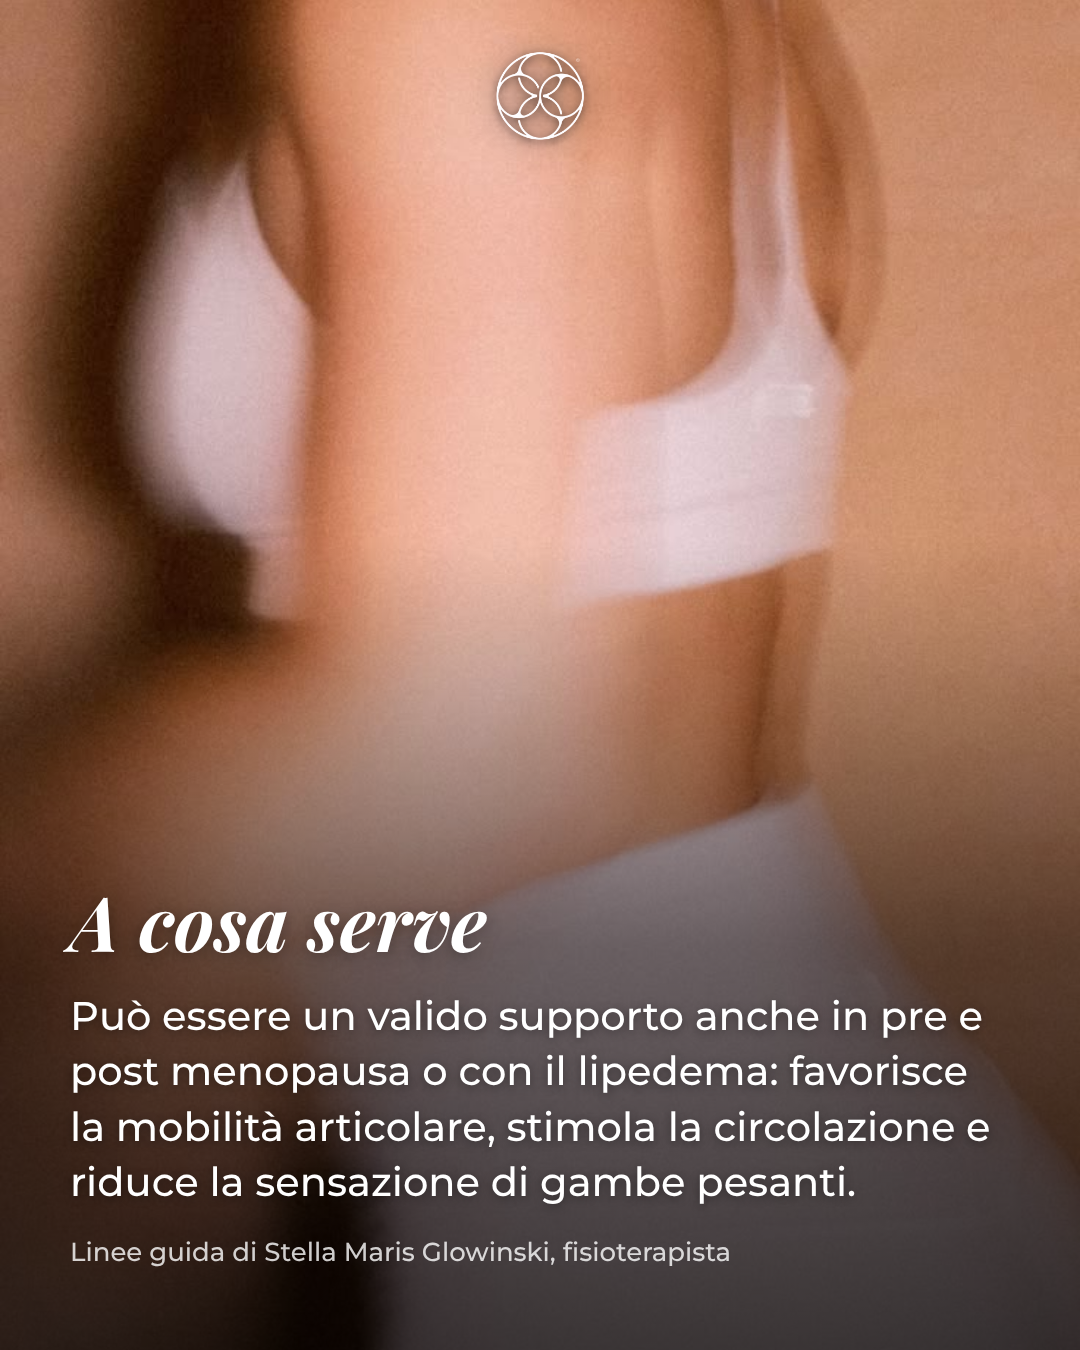
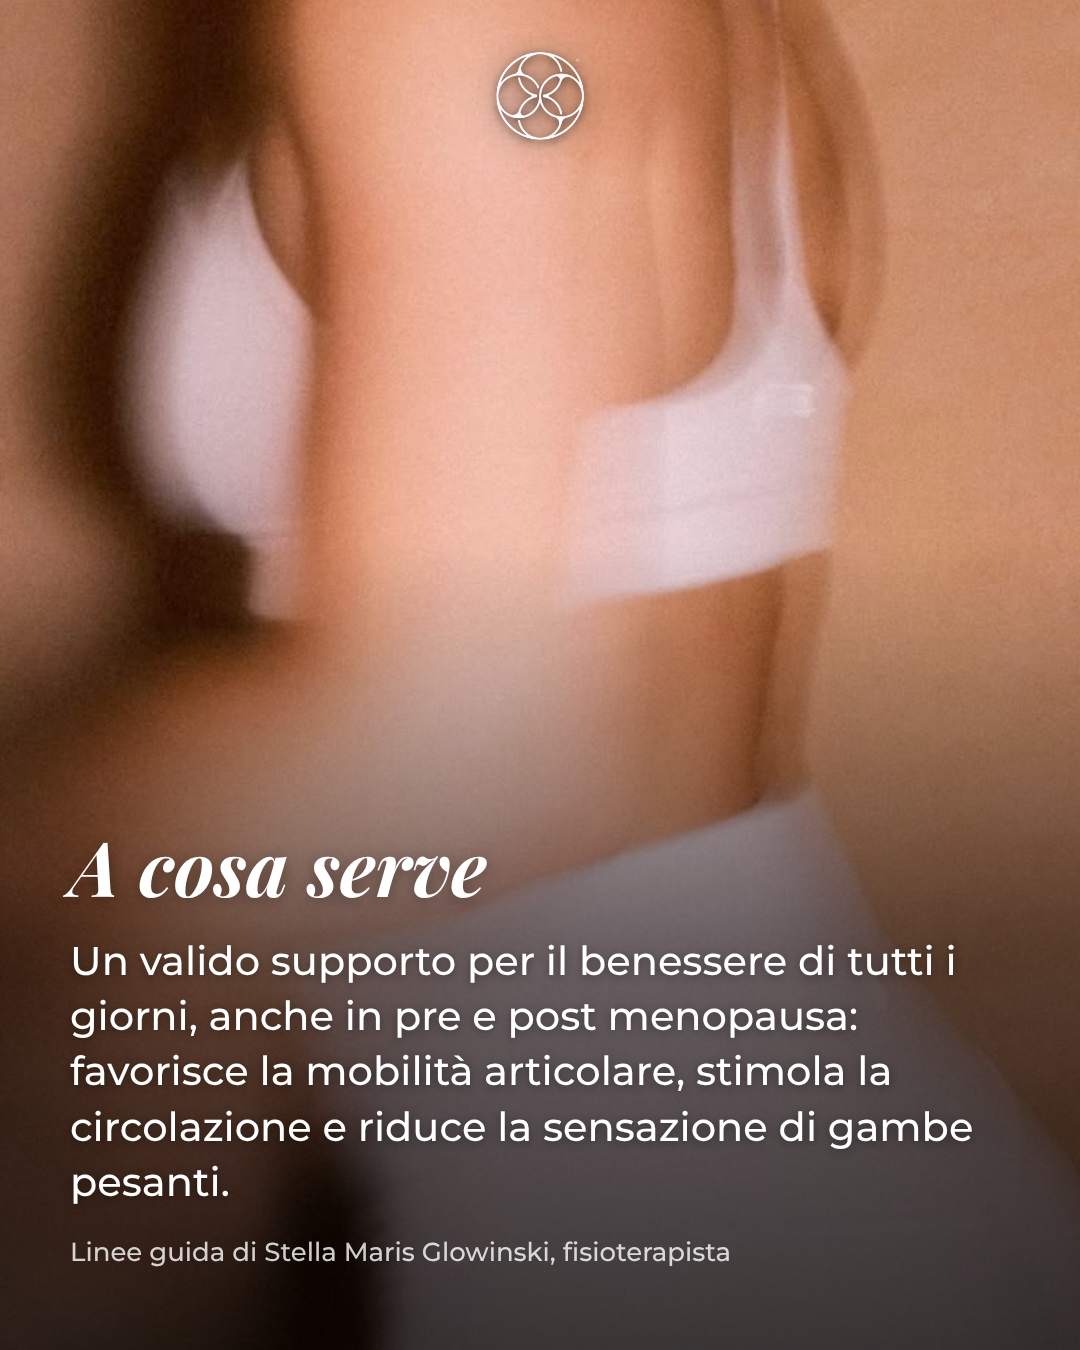
Vibration plate carousel: drop lipedema references
Claude-Session: https://claude.ai/code/session_0137T4JMubY1ECJ8eeHn4dmR

Changed region(s): [[0.0611, 0.6222, 0.9167, 0.9022], [0.825, 0.6844, 0.8861, 0.7156]]

diff --git a/src/Pedana/Slides.tsx b/src/Pedana/Slides.tsx
@@ -2,7 +2,7 @@ import { SlideData } from "../Carosello/Slides";
 
 // Vibration plate carousel, slides 2-8 (after the video cover in ./index.tsx).
 // Content from the guidelines by physiotherapist Stella Maris Glowinski
-// ("Pedana vibrante – Linee guida per pazienti con lipedema").
+// ("Pedana vibrante – Linee guida"), without the lipedema framing.
 // Rendered with the pasta carousel's <Slide> layout.
 
 const SOURCE = "Linee guida di Stella Maris Glowinski, fisioterapista";
@@ -11,7 +11,7 @@ export const PEDANA_SLIDES: SlideData[] = [
   {
     photo: "pedana-17.jpg",
     title: "A cosa serve",
-    body: "Può essere un valido supporto anche in pre e post menopausa o con il lipedema: favorisce la mobilità articolare, stimola la circolazione e riduce la sensazione di gambe pesanti.",
+    body: "Un valido supporto per il benessere di tutti i giorni, anche in pre e post menopausa: favorisce la mobilità articolare, stimola la circolazione e riduce la sensazione di gambe pesanti.",
     source: SOURCE,
   },
   {
@@ -47,7 +47,7 @@ export const PEDANA_SLIDES: SlideData[] = [
   {
     photo: "pedana-22.webp",
     title: "Quando evitarla",
-    body: "Interventi recenti, ernie o patologie della colonna, tumori, flebite, trombi o problemi venosi gravi. Con lipedema, linfedema o patologie croniche confrontati sempre con un professionista sanitario.",
+    body: "Interventi recenti, ernie o patologie della colonna, tumori, flebite, trombi o problemi venosi gravi. In caso di patologie croniche confrontati sempre con un professionista sanitario.",
     source: `${SOURCE} · Salva il post e condividilo`,
   },
 ];
